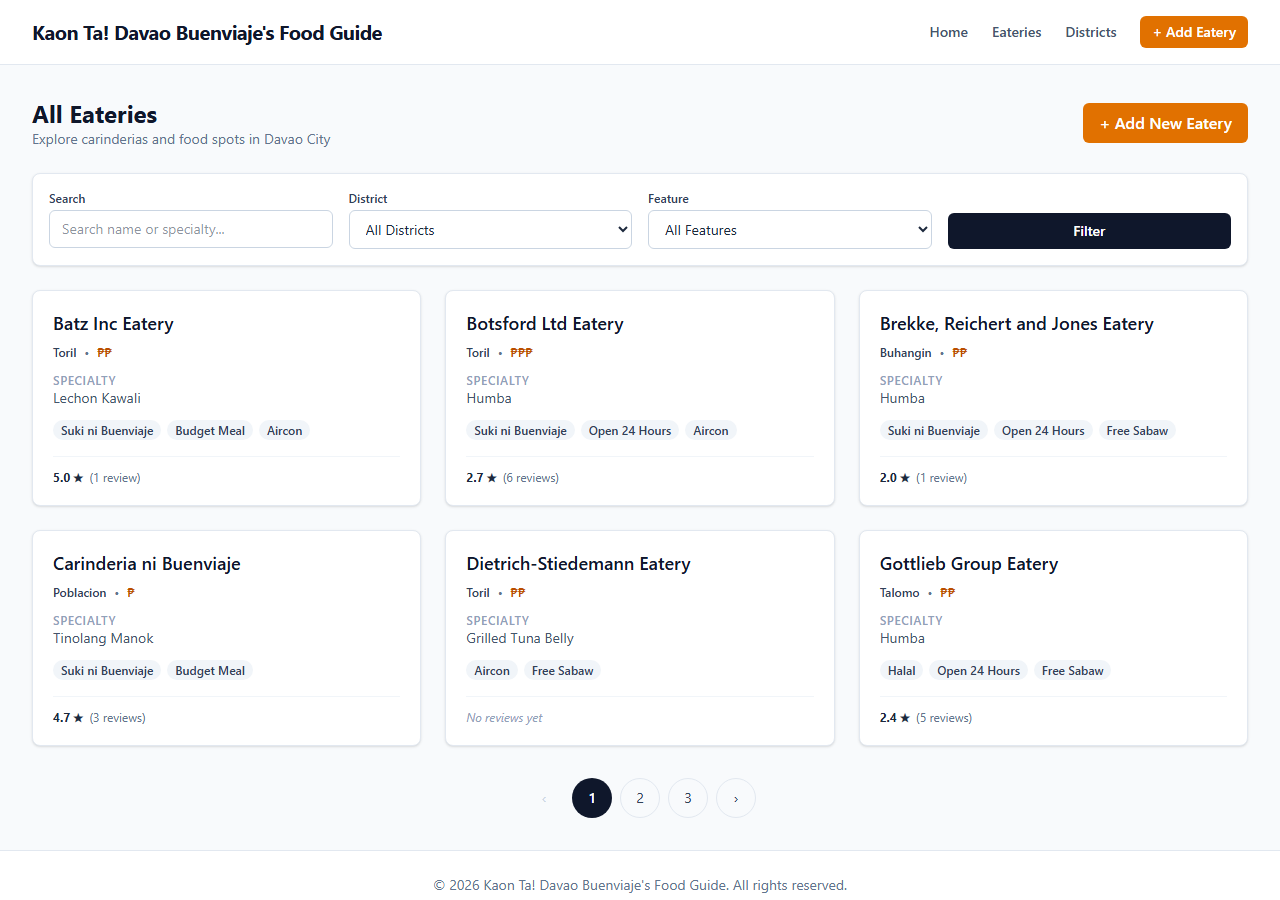
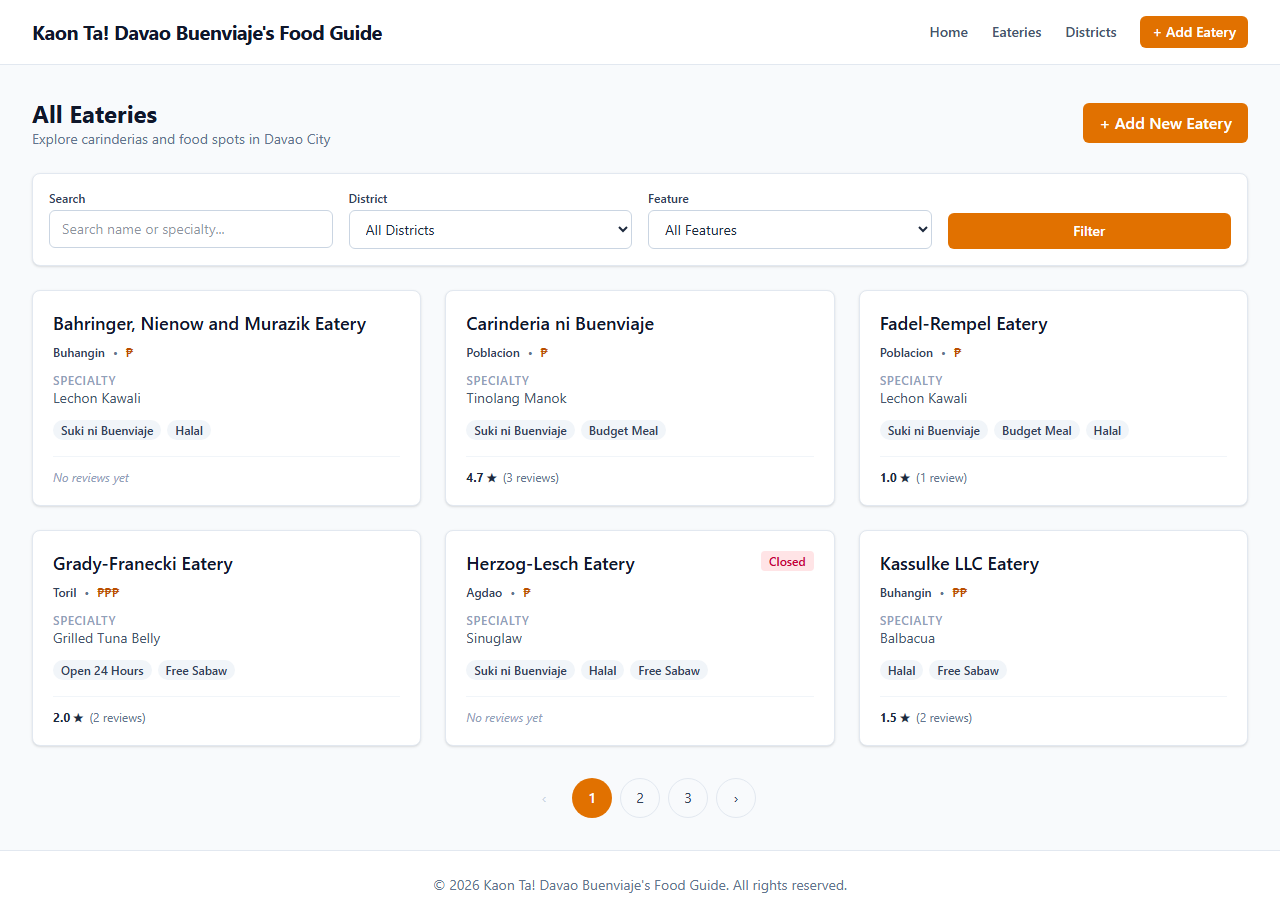
Match filter and active pagination button colors to orange accent

diff --git a/resources/views/partials/pagination.blade.php b/resources/views/partials/pagination.blade.php
@@ -19,7 +19,7 @@
             @if (is_array($element))
                 @foreach ($element as $page => $url)
                     @if ($page == $paginator->currentPage())
-                        <span class="w-10 h-10 flex items-center justify-center rounded-full bg-slate-900 text-white text-sm font-semibold">
+                        <span class="w-10 h-10 flex items-center justify-center rounded-full bg-amber-600 text-white text-sm font-semibold">
                             {{ $page }}
                         </span>
                     @else

diff --git a/resources/views/eateries/index.blade.php b/resources/views/eateries/index.blade.php
@@ -41,7 +41,7 @@
         </div>
 
         <div class="flex items-end gap-2">
-            <button type="submit" class="flex-1 px-4 py-2 rounded-md bg-slate-900 text-white font-medium text-sm hover:bg-slate-800 transition">
+            <button type="submit" class="flex-1 px-4 py-2 rounded-md bg-amber-600 text-white font-medium text-sm hover:bg-amber-700 transition">
                 Filter
             </button>
             @if (request()->hasAny(['q', 'district', 'feature']))
